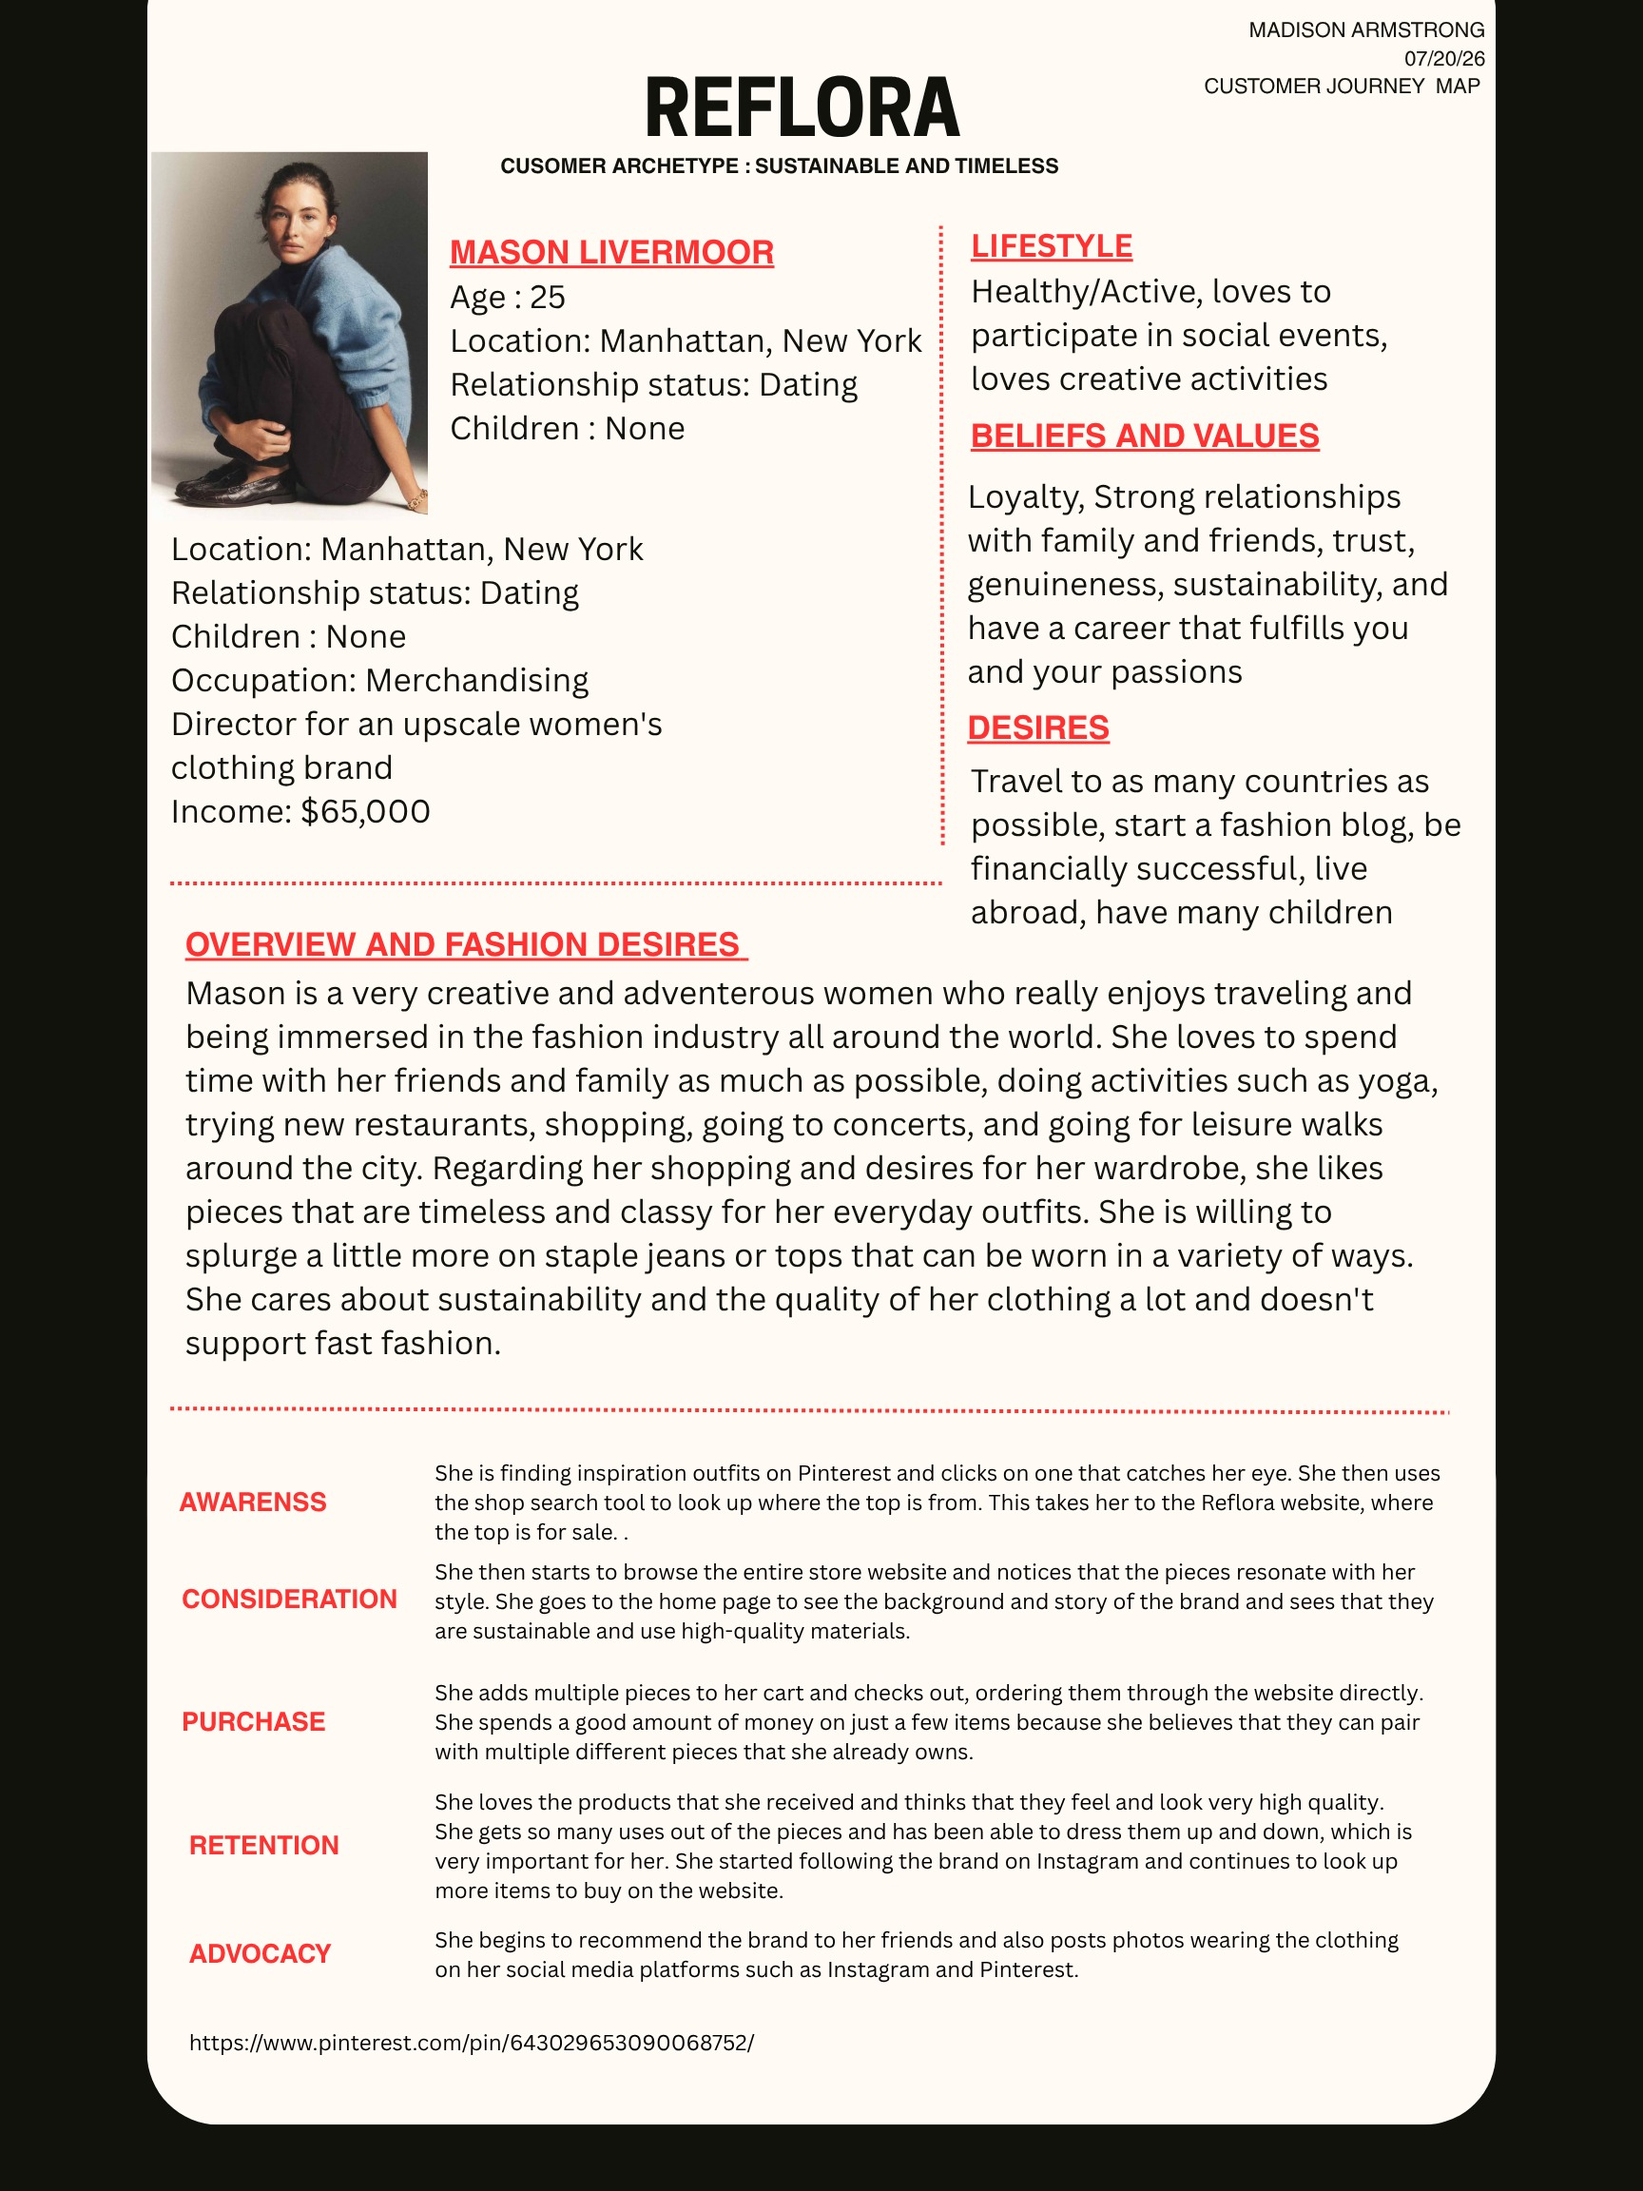
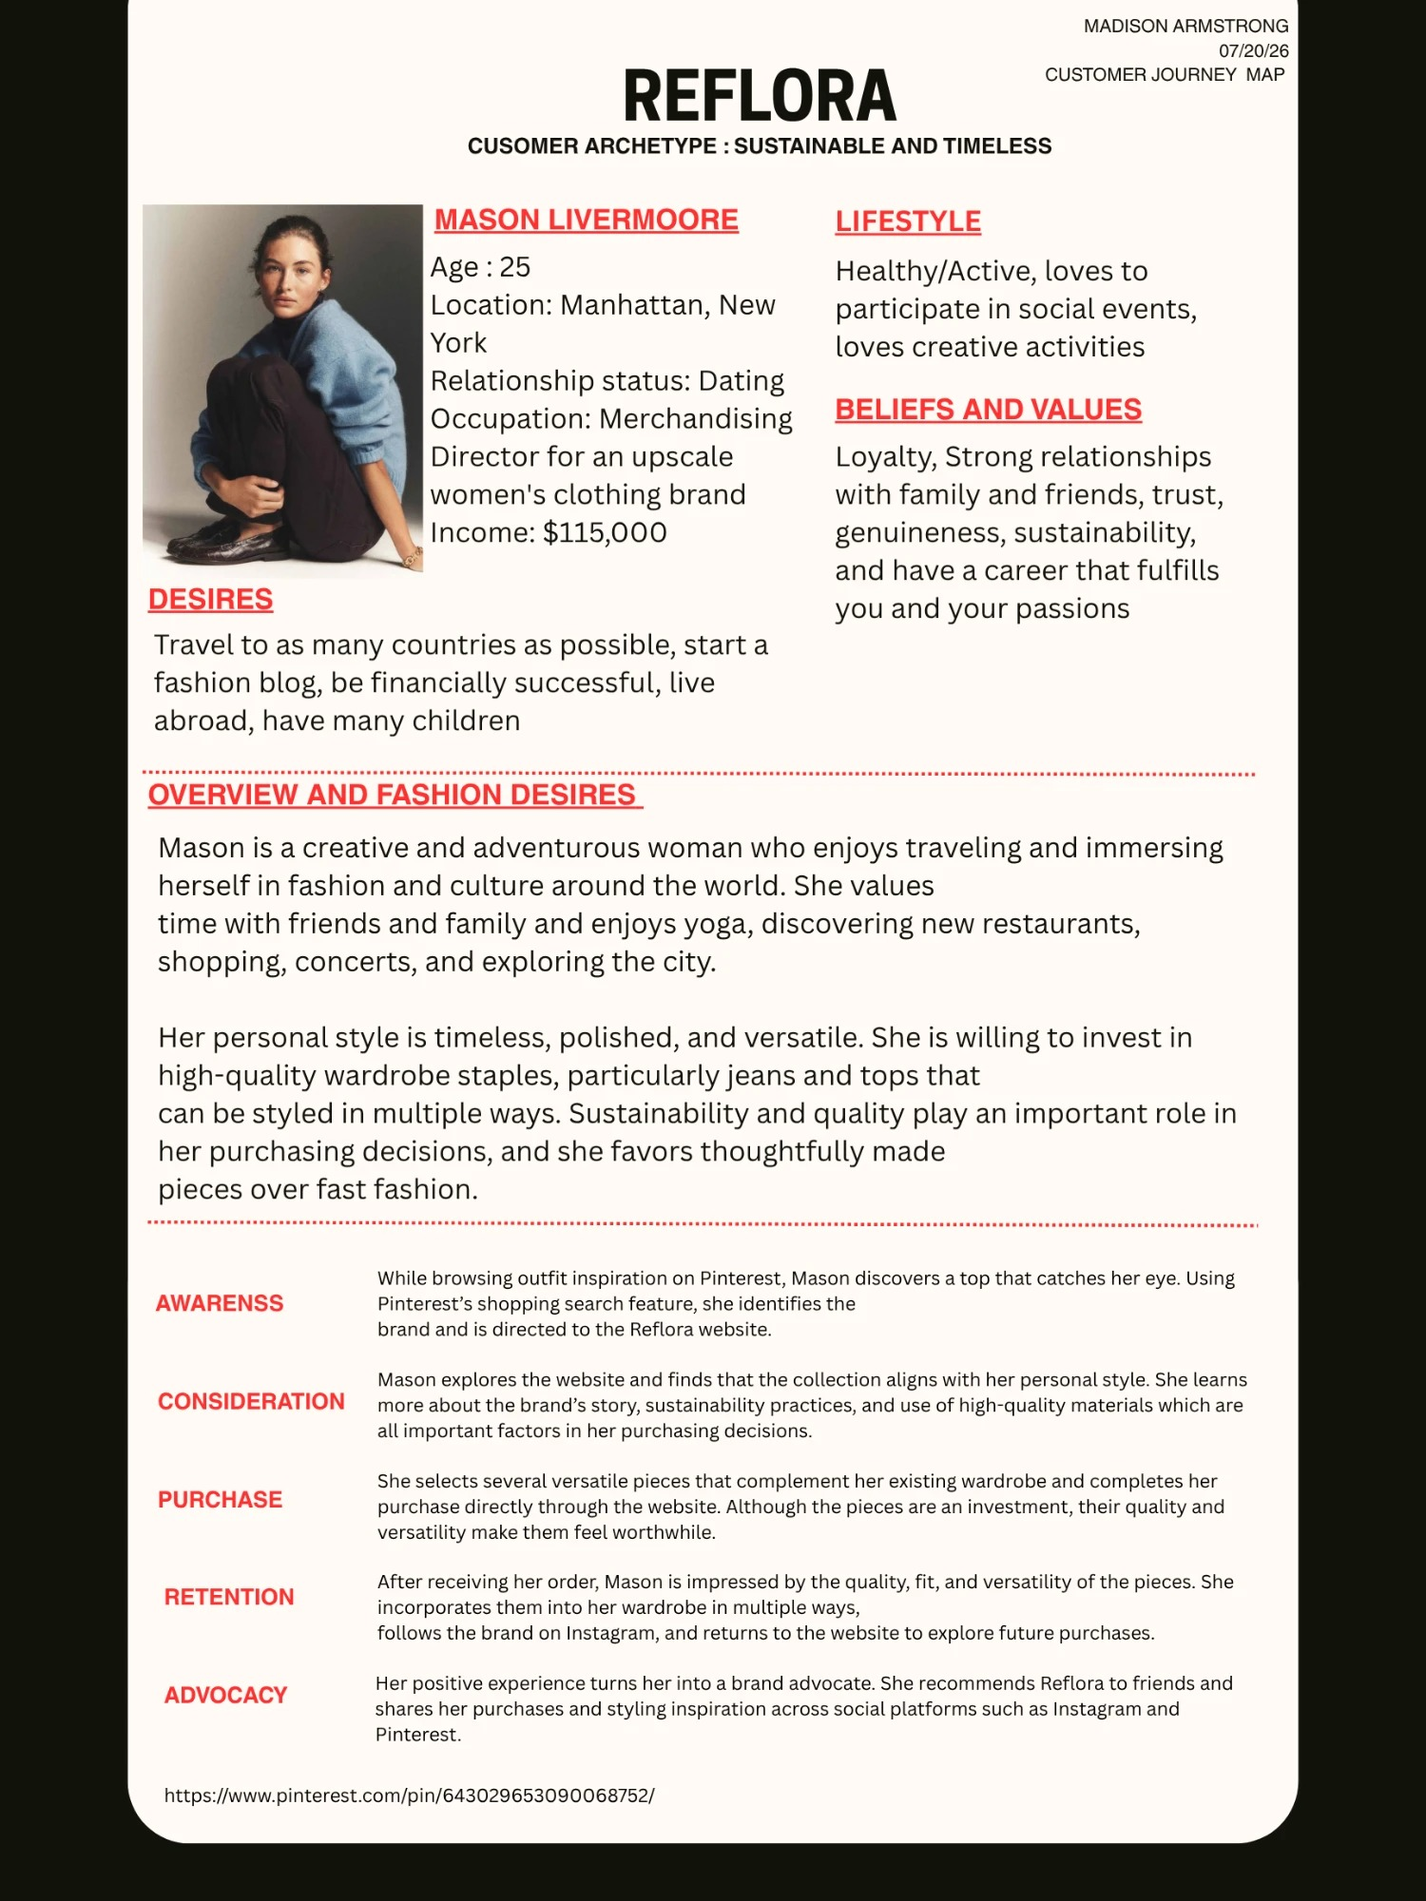
Update the Reflora customer journey map document
Swap in the revised journey map (updated income, archetype spelling
"Livermoore", and reworded overview/journey copy) and correct the
name spelling in the page body text to match.

Changed region(s): [[0.092, 0.031, 0.8893, 0.961], [0.1227, 0.837, 0.2147, 0.868], [0.1227, 0.775, 0.2147, 0.806]]

diff --git a/lib/projects.ts b/lib/projects.ts
@@ -41,13 +41,13 @@ export const projects: Project[] = [
     summary:
       "A customer archetype and her five-stage journey, from discovering a piece on Pinterest to purchase, retention, and advocacy.",
     body: [
-      "Built a full customer archetype, Mason Livermoor, a 25-year-old Manhattan merchandising director who values sustainability and timeless style, and mapped her five-stage journey from discovering a piece on Pinterest through purchase, retention, and advocacy.",
+      "Built a full customer archetype, Mason Livermoore, a 25-year-old Manhattan merchandising director who values sustainability and timeless style, and mapped her five-stage journey from discovering a piece on Pinterest through purchase, retention, and advocacy.",
     ],
     image: {
       src: "/images/reflora-journey-map.jpg",
-      alt: "Reflora customer journey map document: Mason Livermoor's archetype profile and her five-stage awareness to advocacy journey",
-      width: 1728,
-      height: 2304,
+      alt: "Reflora customer journey map document: Mason Livermoore's archetype profile and her five-stage awareness to advocacy journey",
+      width: 1500,
+      height: 2000,
     },
     coverImage: {
       src: "/images/reflora-cover.jpg",
